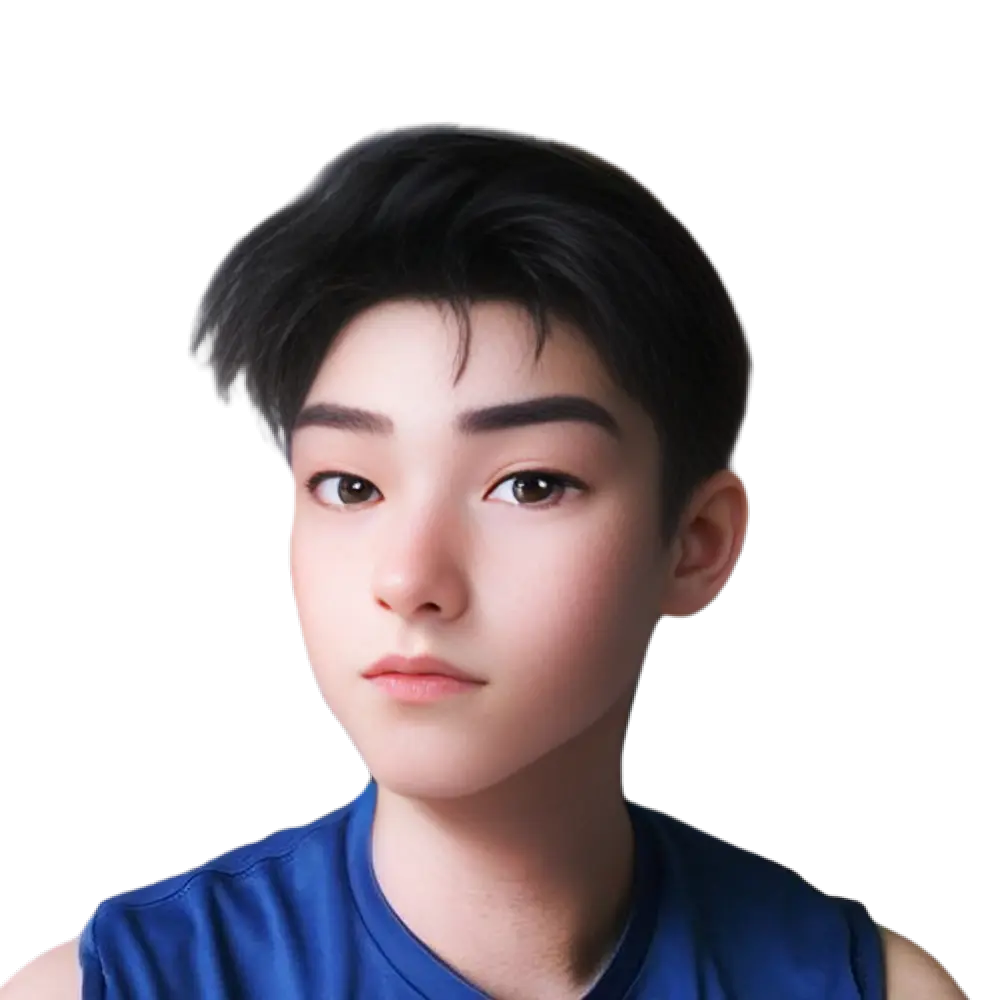
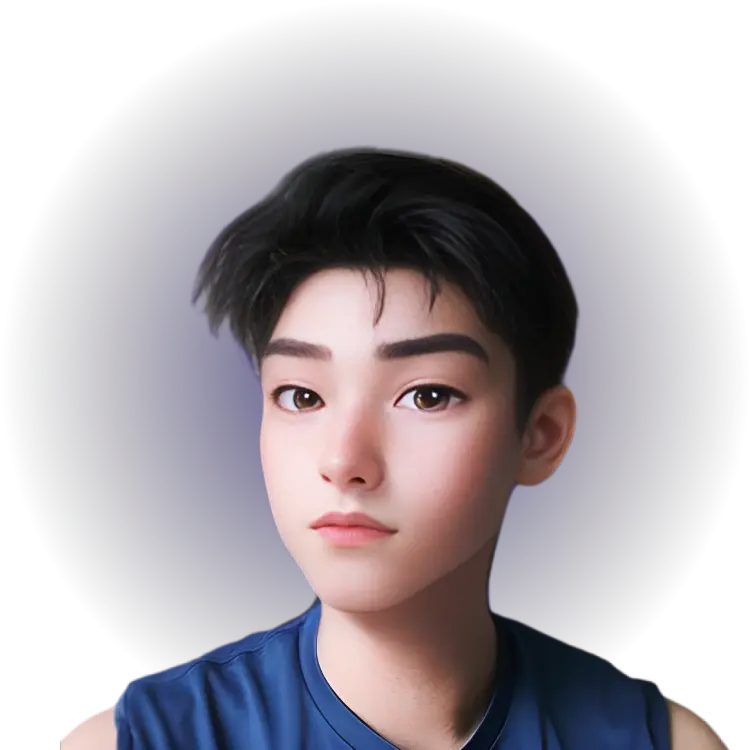
optimize: image size

diff --git a/src/pages/About/Hero/Hero.jsx b/src/pages/About/Hero/Hero.jsx
@@ -91,11 +91,10 @@ const Hero = ({ selectedWorkRef }) => {
       </div>
 
       {/* Image */}
-      <div className="absolute bottom-0 right-0 hidden rounded-full bg-hero-radial md:flex md:size-[620px] lg:size-[720px] xl:size-[870px]" />
       <img
         src="/hero-img.webp"
         alt="photo"
-        className="absolute bottom-0 right-0 hidden md:flex md:size-[600px] lg:size-[700px] xl:size-[850px]"
+        className="absolute bottom-0 right-0 hidden w-[50%] md:flex"
       />
 
       {/* Social Medias */}
